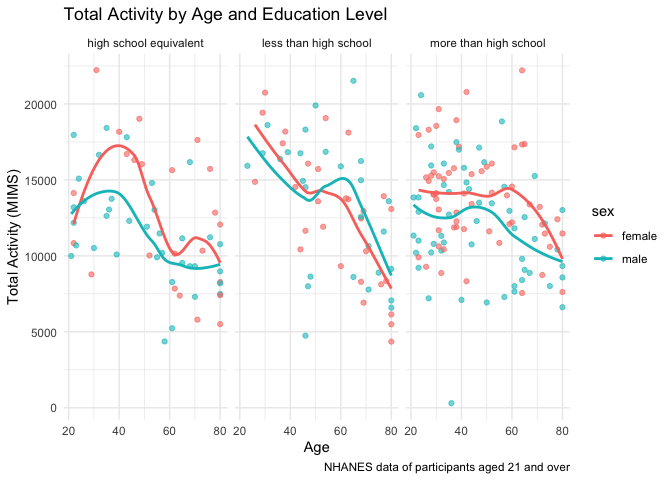
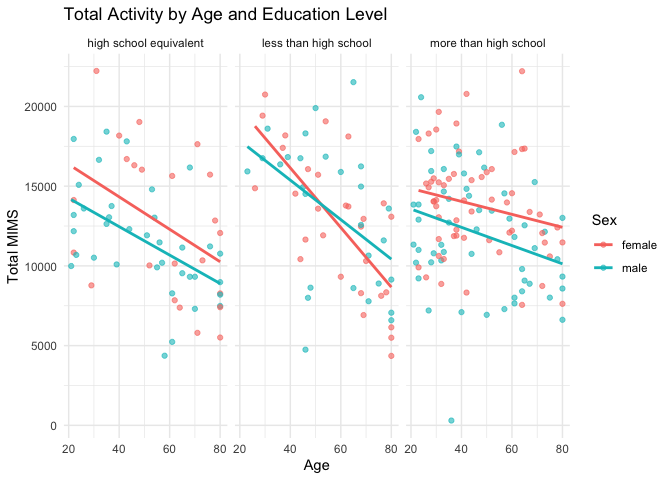
Plot of Total Activity by Age and Education Level for problem 2.

diff --git a/P8105.md b/P8105.md
@@ -310,7 +310,34 @@ and sex distribution of those who did not complete high school or
 completed an equivalent high school, as seen in the first two sections,
 appear to be relatively consistent.
 
-**Summarize total MIMS activity by participant**
+**Plot of Total Activity by Age and Education Level**
+
+``` r
+nhanes_mims %>%
+  mutate(total_mims = rowSums(across(min1:min1440), na.rm = TRUE)) %>%  # Calculate total MIMS
+  ggplot(aes(x = age, y = total_mims, color = sex)) + 
+  geom_point(alpha = 0.6) +  # Scatter points
+  geom_smooth(method = "lm", se = FALSE) +  # Add a linear trend line 
+  facet_wrap(~ education) +  # Separate panels for education levels
+  labs(
+    title = "Total Activity by Age and Education Level",
+    color = "Sex",
+    x = "Age",
+    y = "Total MIMS"
+  ) +
+  theme_minimal()  
+```
+
+    ## `geom_smooth()` using formula = 'y ~ x'
+
+![](P8105_files/figure-gfm/unnamed-chunk-9-1.png)<!-- --> As shown in
+the figure, we can see that overall, regardless of gender and education,
+the total amount of activity decreases with age. The highest activity in
+all three graphs is the leftmost point. At the same time, both the “high
+school equivalent education” and “higher than high school education”
+groups had higher activity.
+
+**Scatter Plot of Total MIMS by Age Across Sex and Education**
 
 ``` r
 library(tidyr)
@@ -330,7 +357,7 @@ ggplot(nhanes_data_df, aes(x = age, y = total_activity, color = sex)) +
   geom_smooth(se = FALSE) +  # Add a trend line
   facet_grid(. ~ education) +  # Separate panels for education levels
   labs(
-    title = "Total Activity by Age and Education Level",
+    title = "Total MIMS by Age and Education Level",
     x = "Age",
     y = "Total Activity (MIMS)",
     caption = "NHANES data of participants aged 21 and over"
@@ -340,7 +367,7 @@ ggplot(nhanes_data_df, aes(x = age, y = total_activity, color = sex)) +
 
     ## `geom_smooth()` using method = 'loess' and formula = 'y ~ x'
 
-![](P8105_files/figure-gfm/unnamed-chunk-9-1.png)<!-- --> From our
+![](P8105_files/figure-gfm/unnamed-chunk-10-1.png)<!-- --> From our
 picture, we can see that the regression line trend is basically similar
 for men and women at the three different levels of education. It was
 also found that in the “high school equivalent” and “above high school”
